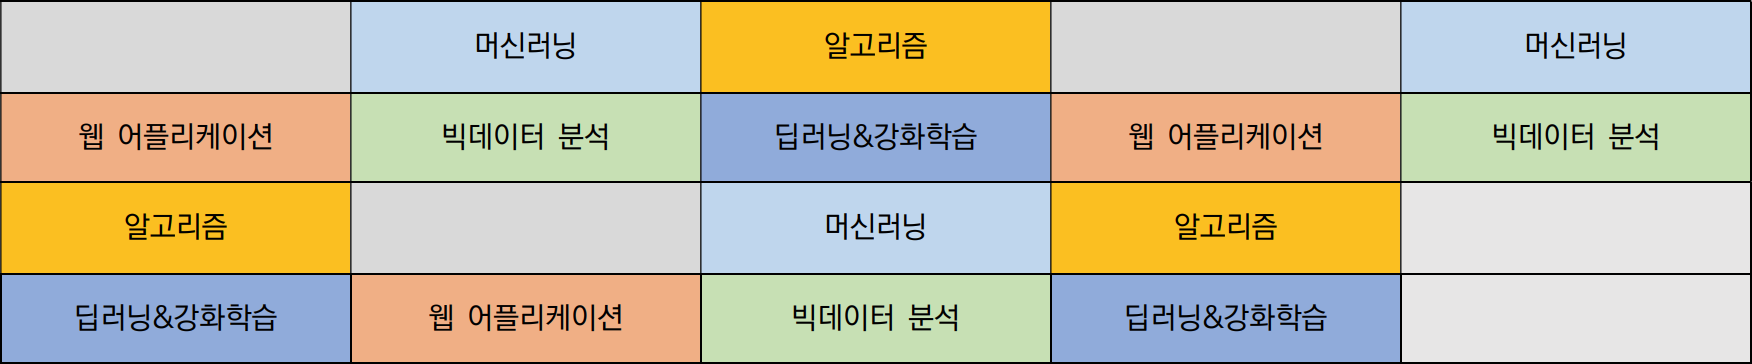
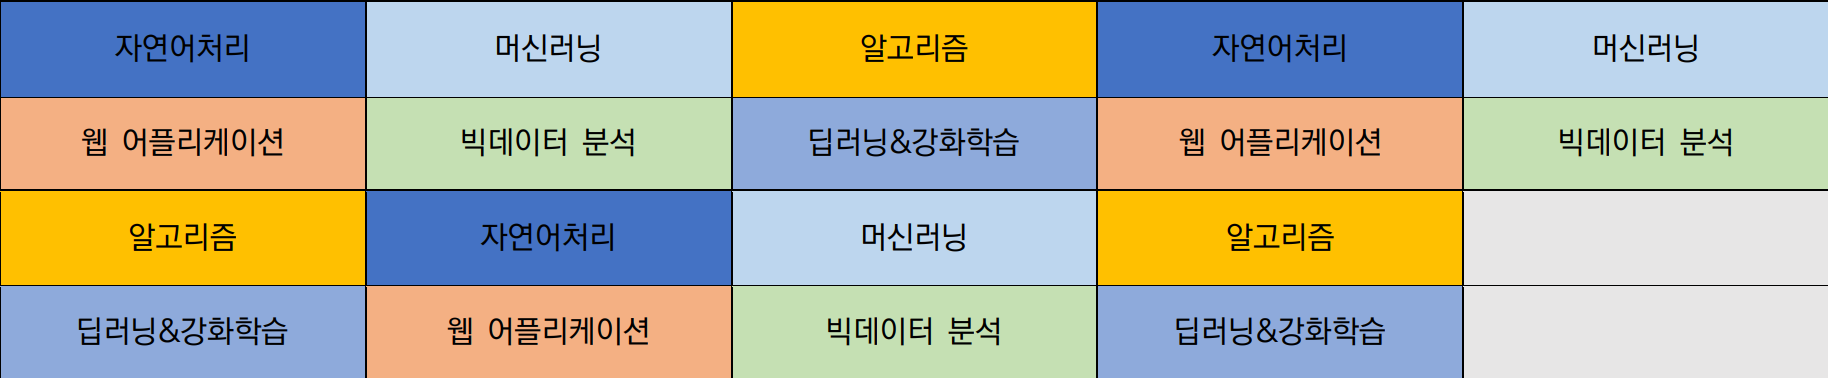
Add : NLP

diff --git a/02_Rotation/README.md b/02_Rotation/README.md
@@ -23,4 +23,7 @@ Tensorflow
 ### [BigData Analysis](https://github.com/4923/GwangjuAI2/tree/master/02_Rotation/BigData)
 Statistics, SQL
 
+### [NLP](https://github.com/4923/GwangjuAI2/tree/master/02_Rotation/NLP)
+Natural Language Processing
+
 ### [Mentoring/Seminar](https://github.com/4923/GwangjuAI2/tree/master/02_Rotation/Mentoring)
